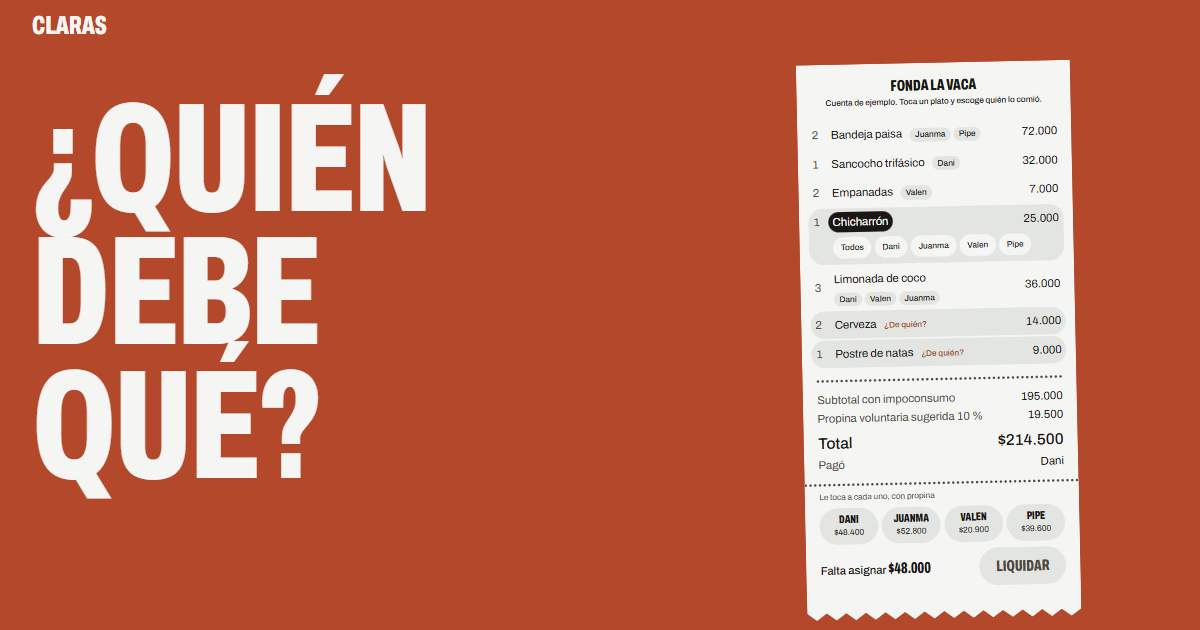
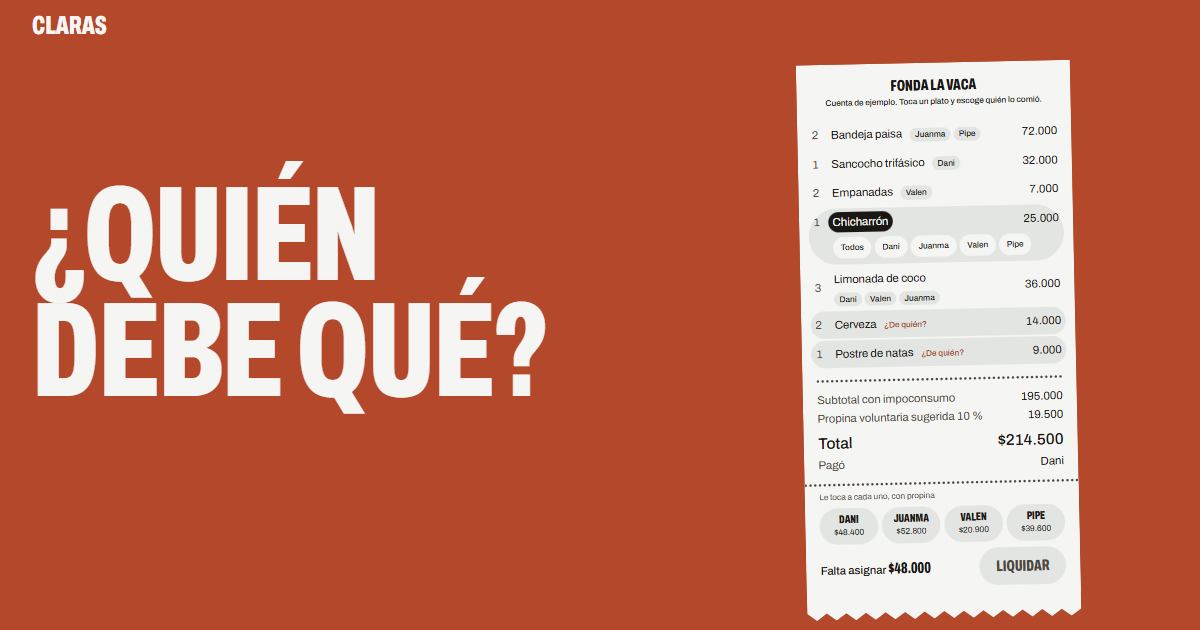
El titular cabe en dos líneas en cualquier pantalla (#3)
En escritorio la letra del titular no pasa de 11,25vw: dos líneas con holgura de 360 a 1920 px.

Changed region(s): [[0.0308, 0.1206, 0.4625, 0.8143]]

diff --git a/css/landing.css b/css/landing.css
@@ -622,6 +622,13 @@ html:not(.con-js) .guia-sin-js { display: inline; }
   text-transform: uppercase;
 }
 
+/* Escritorio: el titular comparte la pantalla con la cuenta y su columna es la
+   mitad del ancho. "DEBE QUÉ?" mide unas 3,8 veces el tamaño de la letra, así
+   que la letra no pasa de 11,25vw y el titular queda siempre en dos líneas. */
+@media (min-width: 981px) {
+  .titular { font-size: min(var(--step-display), 11.25vw); }
+}
+
 /* Tableta y teléfono: titular arriba, la cuenta debajo, luego la bajada y el botón. */
 @media (max-width: 980px) {
   .portada { display: flex; flex-direction: column; align-items: stretch; min-height: 0; padding-top: 0.5rem; }
